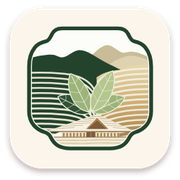
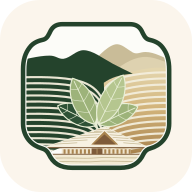
feat: restore original branding and complete aftersale history and return info

diff --git a/test/flows.js b/test/flows.js
@@ -1,3 +1,4 @@
+const U = require('../lib/util'), now=U.now;
 // 进阶流程测试:拼团成团/到点自动成团、秒杀下单、优惠券+积分抵扣、客服创建售后+积分/现金按比例退款、前台禁止上传
 const base = process.argv[2] || 'http://localhost:' + (process.env.PORT || 3000);
 const db = require('../lib/db');
@@ -114,6 +115,15 @@ class C { constructor(b) { this.k = {}; this.t = ''; this.b = b || base; }
   r = await adm.post('/admin/service/2/aftersale', { order_id: poid, type: 'quality', reason: '质量问题', amount: String(half), note: '部分退款' }); const pasid = (r.loc || '').split('/').pop(); ok(/^\d+$/.test(pasid), '客服创建「质量问题退换货」售后单');
   ok(db.get('SELECT created_by FROM aftersales WHERE id=?', pasid).created_by, '记录创建客服');
   r = await adm.get('/admin/aftersales/' + pasid); ok(r.text.includes('预计 退积分 150') && r.text.includes('原路退回'), '后台售后详情预计拆分(退积分/退现金)');
+  // Owner-approved aftersale return info / true event history.
+  r = await adm.post('/admin/aftersales/' + pasid + '/return-info', {return_address:'测试退货仓 <script>alert(1)</script>',return_shipping_note:'质量问题由商家承担，联系客服核实报销'});
+  ok(r.status===302, '售后:后台保存退货地址和运费说明');
+  r=await a.get('/aftersale/'+pasid);
+  ok(r.text.includes('测试退货仓 &lt;script&gt;')&&!r.text.includes('<script>alert(1)</script>'),'售后:地址显示且防止脚本注入');
+  ok(r.text.includes('质量问题由商家承担')&&r.text.includes('处理记录')&&r.text.includes('复制地址'),'售后:用户看到运费和真实处理记录');
+  r=await b.get('/aftersale/'+pasid);ok(r.status===302&&!r.text.includes('测试退货仓'),'售后:他人不能读取退货地址');
+  r=await a.post('/admin/aftersales/'+pasid+'/return-info',{return_address:'非法改动'});ok(r.status!==200&&db.get('SELECT return_address FROM aftersales WHERE id=?',pasid).return_address.includes('测试退货仓'),'售后:普通会员不能改退货信息');
+  await adm.get('/admin/aftersales/'+pasid);
   await adm.post('/admin/aftersales/' + pasid + '/handle', { action: 'approve' }); ok(db.get('SELECT status FROM aftersales WHERE id=?', pasid).status === 'approved_return', '同意退货');
   ok(!!db.get("SELECT 1 FROM messages WHERE user_id=2 AND sender='staff' AND content LIKE '【售后通知】售后单 #" + pasid + "%同意退货%'"), '状态变更通过客服消息通知用户');
   await a.get('/aftersale/' + pasid); r = await a.post('/aftersale/' + pasid + '/return', { company: '顺丰速运', tracking: 'SF999888777' }); ok(db.get('SELECT status FROM aftersales WHERE id=?', pasid).status === 'returned', '买家填写退货物流');
@@ -127,6 +137,20 @@ class C { constructor(b) { this.k = {}; this.t = ''; this.b = b || base; }
   ok(!!db.get("SELECT 1 FROM points_log WHERE user_id=2 AND delta=150 AND reason LIKE '售后退回积分%'"), 'points_log 记录「售后退回积分」');
   ok(db.get('SELECT status FROM orders WHERE id=?', poid).status === 'completed', '部分退款后订单保持已完成');
   r = await a.get('/aftersale/' + pasid); ok(r.text.includes('退积分 150') && r.text.includes('退现金 ¥' + half.toFixed(2)), '用户售后页显示退积分/退现金拆分');
+  { const ev=db.all('SELECT * FROM aftersale_events WHERE aftersale_id=? ORDER BY id',pasid);
+    ok(ev.map(x=>x.status).filter((x,i,arr)=>!i||x!==arr[i-1]).join(',')==='pending,approved_return,returned,refunded','售后:创建、批准、寄回、退款记录完整有序');
+    const n=ev.length;db.exec1('UPDATE aftersales SET updated_at=? WHERE id=?',now(),pasid);ok(db.get('SELECT COUNT(*) n FROM aftersale_events WHERE aftersale_id=?',pasid).n===n,'售后:无状态变化的刷新不制造时间线节点');
+    const display=require('../lib/aftersale-display');
+    const sup={id:-1,created_at:now(),supplier_status:JSON.stringify({afsAddressList:[{afterServiceReceiver:'供应商仓库',afterServicePhone:'测试电话',afterServiceAddress:'接口地址'}]}),return_address:'人工地址'};
+    ok(display(sup).addresses[0].includes('接口地址')&&!display(sup).addresses.includes('人工地址'),'售后:优先展示供应商返回的地址');
+    ok(display({id:-2,created_at:now()}).addresses.length===0&&display({id:-2,created_at:now()}).shippingNote.includes('待客服'),'售后:未确认时不编造地址与运费责任');
+    ok(U.AFTERSALE_STATUS.approved_return==='待寄回'&&U.AFTERSALE_STATUS.cancelled==='已取消','售后:新显示名保留原状态代码');
+    const legacy=display({id:-3,created_at:now(),updated_at:now(),status:'refunded'});ok(legacy.events.length===1,'售后:旧单无记录不伪造中间节点');
+    const x=db.exec1("INSERT INTO aftersales(order_id,user_id,type,reason,amount,status,created_at,updated_at) VALUES(?,?,?,?,?,'pending',?,?)",poid,2,'quality','记录测试',0,now(),now()).lastInsertRowid;
+    for(const st of ['rejected','cancelled','exchanged'])db.exec1('UPDATE aftersales SET status=?,updated_at=? WHERE id=?',st,now(),x);
+    ok(db.get('SELECT COUNT(*) n FROM aftersale_events WHERE aftersale_id=?',x).n===4,'售后:拒绝、取消、换货状态均留痕');
+    db.exec1('DELETE FROM aftersales WHERE id=?',x);ok(db.get('SELECT COUNT(*) n FROM aftersale_events WHERE aftersale_id=?',x).n===0,'售后:删除演示单同步清理关联记录');
+  }
   r = await adm.post('/admin/service/2/aftersale', { order_id: poid, type: 'refund', reason: '再退', amount: String(po.pay_amount) }); ok((r.loc || '').includes('/admin/service'), '剩余可退金额校验(不可超额退款)');
   console.log('== 全额退款 / 七天无理由校验 ==');
   const u = new C(); await u.login('13800000001', '123456');

diff --git a/test/smoke.js b/test/smoke.js
@@ -36,7 +36,7 @@ const ok = (c, name, extra) => { if (c) { pass++; console.log('  ✔', name); } 
   { const pg = await shop.get('/products'); ok(pg.text.includes('href="/privacy"') && pg.text.includes('href="/terms"') && pg.text.includes('运营方：海南韵农科技有限公司') && !pg.text.includes('演示'), '其他页面页脚仍有隐私政策/用户协议链接与运营方,无演示说明'); }
   ok(r.text.includes('活动专区') && r.text.includes('云商会员') && !r.text.includes('七天无理由') && !r.text.includes('7天无理由') && !r.text.includes('class="svc"') && !r.text.includes('鲜活易腐除外') && r.text.indexOf('class="svc"') < r.text.indexOf('class="picks"') && (r.text.match(/class="pk"/g) || []).length >= 6 && !/秒杀|限时|倒计时|仅剩|data-countdown|为你推荐|寄售|转盘/.test(r.text) && !/方正|汉仪/.test(r.text), '首页朱漆金韵:活动专区/云商会员/服务条(不含七天无理由承诺),无秒杀与倒计时');
   { const names = [...r.text.matchAll(/<span class="pk-n">([^<]*)<\/span>/g)].map(m => m[1]).slice(0, 6); const fresh = names.filter(n => /苹果|脐橙|芒果|鸡蛋|蔬菜/.test(n)).length; ok(names.length === 6 && fresh >= 4 && names.length - fresh <= 2 && !r.text.includes('智能手机') && !/今日推荐|为你推荐|猜你喜欢/.test(r.text), '好物精选演示 6 件以新鲜农产品为主(数码配件≤2),无整机手机与个性化文案', names.join('|')); }
-  ok(r.text.includes('韵农甄选') && r.text.includes('class="brand zh-brand gh-shop" href="/" aria-label="韵农甄选 首页">韵农甄选</a>') && !r.text.includes('财哥商城') && r.text.includes('placeholder="搜索商品名称"'), '品牌「韵农甄选」:首页横版标志/公告/页脚,无旧品牌名');
+  ok(r.text.includes('韵农甄选') && r.text.includes('/static/img/logo-orig-mark.svg?v=1') && r.text.includes('class="orig-mark"') && !r.text.includes('财哥商城') && r.text.includes('placeholder="搜索商品名称"'), '品牌「韵农甄选」:首页横版标志/公告/页脚,无旧品牌名');
   { ok(!/class="(hero )?bnr|bnr-s|bnr-d|aria-roledescription="carousel"/.test(r.text) && /home\.css\?v=22/.test(r.text) && !/home\.js\?v=/.test(r.text), '首页方案A:已移除横幅轮播');
     { const p2 = await shop.get('/product/2'); ok(p2.status === 200 && p2.text.includes('Type-C 七合一扩展坞') && !p2.text.includes('轻薄本'), '演示商品 ID 2 为电脑配件(扩展坞),无整机笔记本'); }
     ok(!/京东|财哥|倒计时|已售|销量|限时|仅剩/.test(r.text.replace(/<script[\s\S]*?<\/script>/g, '')) && r.text.includes('class="ann hm-ann hm-card"') && r.text.includes('class="hm-duo hm-card"'), '首页方案A:公告卡/精选好物|签到卡,无外部平台/倒计时/销量文案'); }
@@ -213,7 +213,7 @@ const ok = (c, name, extra) => { if (c) { pass++; console.log('  ✔', name); } 
   const act = new Client(); const aphone = '136' + String(Date.now()).slice(-8);
   await act.get('/register'); r = await act.post('/register', { phone: aphone, password: 'abc12345', password2: 'abc12345', nickname: '邀测', agree: '1', ref: '100001' });
   ok(r.status === 302, '被邀请人注册');
-  ok((await act.get('/me/coupons')).text.includes('邀请好友首单券'), '被邀请人获得首单优惠券');
+  ok((await act.get('/me/coupons')).text.includes('邀请好友专享券'), '被邀请人获得邀请好友专享券');
   r = await adm.get('/admin/members?q=' + aphone); const auid = (r.text.match(/\/admin\/members\/(\d+)/) || [])[1]; ok(!!auid, '后台找到被邀请人');
   r = await adm.get('/admin/members/' + auid); ok(r.text.includes('开通云商卡') && r.text.includes('经办员工'), '会员详情有云商卡开通表单');
   const ctid = (r.text.match(/name="card_type_id"[\s\S]*?<option value="(\d+)"/) || [])[1];

diff --git a/routes/shop.js b/routes/shop.js
@@ -370,12 +370,18 @@ module.exports = function (app, { filesOf }) {
   app.get('/aftersale/:id', needLogin, (req, res) => {
     const a = db.get('SELECT a.*, o.order_no, o.points_used, o.pay_amount FROM aftersales a JOIN orders o ON o.id=a.order_id WHERE a.id=? AND a.user_id=?', int(req.params.id), req.user.id);
     if (!a) return res.redirect('/aftersales');
-    res.page('shop/aftersale', { title: '售后详情', a, items: db.all('SELECT * FROM order_items WHERE order_id=?', a.order_id) });
+    res.page('shop/aftersale', { title: '售后详情', a, aftersaleDisplay: require('../lib/aftersale-display')(a), items: db.all('SELECT * FROM order_items WHERE order_id=?', a.order_id) });
   });
-  app.post('/aftersale/:id/return', needLogin, (req, res) => {
+  app.post('/aftersale/:id/return', needLogin, async (req, res) => {
     const co = String(req.body.company || '').slice(0, 30), tn = String(req.body.tracking || '').trim().slice(0, 40);
     if (!co || !tn) { flash(req, 'error', '请填写退货快递公司与运单号'); return res.redirect('/aftersale/' + int(req.params.id)); }
-    db.exec1("UPDATE aftersales SET status='returned', return_express=?, return_tracking=?, updated_at=? WHERE id=? AND user_id=? AND status='approved_return'", co, tn, now(), int(req.params.id), req.user.id);
+    const ownCase=db.get('SELECT * FROM aftersales WHERE id=? AND user_id=?',int(req.params.id),req.user.id);
+    if(!ownCase || ownCase.status!=='approved_return'){flash(req,'error','当前状态不能提交退货信息');return res.redirect('/aftersales');}
+    if(ownCase.supplier && ownCase.supplier_pick_type===1){flash(req,'error','本单由供应商安排上门取件，无需自行寄回');return res.redirect('/aftersale/'+ownCase.id);}
+    if(ownCase.supplier){
+      try{const result=await jdvop.afsAction(ownCase.id,'send',{express_company:co,express_code:tn});if(!result.ok){flash(req,'error',result.msg);return res.redirect('/aftersale/'+ownCase.id);}}
+      catch(e){flash(req,'error','退货信息暂未提交成功，请联系客服核实后重试');return res.redirect('/aftersale/'+ownCase.id);}
+    }else db.exec1("UPDATE aftersales SET status='returned', return_express=?, return_tracking=?, updated_at=? WHERE id=? AND user_id=? AND status='approved_return'",co,tn,now(),ownCase.id,req.user.id);
     const a = db.get('SELECT a.id, o.order_no FROM aftersales a JOIN orders o ON o.id=a.order_id WHERE a.id=? AND a.user_id=?', int(req.params.id), req.user.id);
     if (a) svc.notifyService(req.user.id, 'user', `售后单 #${a.id}(订单号 ${a.order_no})退货已寄出:${co} ${tn}`);
     flash(req, 'success', '退货信息已提交,等待商家收货确认'); res.redirect('/aftersale/' + int(req.params.id));

diff --git a/test/jdvop.js b/test/jdvop.js
@@ -305,6 +305,15 @@ const stripTags = h => h.replace(/<script[\s\S]*?<\/script>/g, '').replace(/<sty
   r = await adm.get('/admin/aftersales/' + as.id); ok(r.text.includes('售后运单') && r.text.includes('售后物流'), '售后详情页显示售后物流');
   ok(db.get("SELECT request FROM supplier_call_logs WHERE interface_code='queryAfsLogisticsInfo' ORDER BY id DESC").request.includes('originalOrderId'), '售后物流入参 originalOrderId(京东子单号)');
   ok(db.get('SELECT status FROM orders WHERE id=?', oid).status === 'shipped' && !db.get("SELECT 1 FROM traces WHERE order_id=? AND text LIKE '%部分退款%'", oid), '供应商退款前不给顾客退款');
+  r=await a.get('/aftersale/'+as.id);ok(r.text.includes('供应商安排上门取件')&&!r.text.includes('name="tracking"'),'售后:上门取件不让用户自行寄回');
+  await a.post('/aftersale/'+as.id+'/return',{company:'测试快递',tracking:'TEST123'});ok(db.get('SELECT status FROM aftersales WHERE id=?',as.id).status==='approved_return','售后:上门取件拦截寄回提交');
+  // 本地mock切换寄回分支,核对顾客端不会只改本地状态而漏传供应商。
+  db.exec1('UPDATE aftersales SET supplier_pick_type=3 WHERE id=?',as.id);
+  const callsBefore=db.get("SELECT COUNT(*) n FROM supplier_call_logs WHERE interface_code='updateSendInfo'").n;
+  await a.post('/aftersale/'+as.id+'/return',{company:'测试快递',tracking:'TEST123'});
+  ok(db.get("SELECT COUNT(*) n FROM supplier_call_logs WHERE interface_code='updateSendInfo'").n===callsBefore+1 && db.get('SELECT status FROM aftersales WHERE id=?',as.id).status==='returned','售后:用户寄回信息提交供应商成功后才改状态');
+  await adm.post('/admin/jdvop/aftersales/'+as.id+'/sim-afs_receive');ok(!!db.get("SELECT 1 FROM aftersale_events WHERE aftersale_id=? AND detail LIKE '%已收货%'",as.id),'售后:本地状态未变仍记录供应商实际收货确认');
+  const events=db.all('SELECT status FROM aftersale_events WHERE aftersale_id=? ORDER BY id',as.id);ok(events.some(e=>e.status==='approved_return')&&events.some(e=>e.status==='returned'),'售后:供应商审核和用户寄回均进入时间线');
   await adm.post('/admin/jdvop/aftersales/' + as.id + '/sim-afs_refund');
   const as2 = db.get('SELECT * FROM aftersales WHERE id=?', as.id);
   ok(as2.status === 'refunded' && Math.abs(as2.refund_cash - 25.9) < 0.001 && as2.supplier_refunded_at && as2.supplier_refund_amount > 0, '收到 119 退款回调且查询确认 → 自动退款给顾客', JSON.stringify(as2));

diff --git a/lib/db.js b/lib/db.js
@@ -203,4 +203,21 @@ CREATE INDEX IF NOT EXISTS idx_pr_user_goods ON points_redemptions(user_id, good
 // ---- 供应商对接(京东货盘/来一票 VOP,幂等迁移) ----
 require('./suppliers/jdvop/schema')(db);
 
+// v1.5 售后公开处理记录/独立寄回信息(幂等,原状态代码不变)
+(function aftersaleHistory(){
+ const cols = new Set(db.prepare('PRAGMA table_info(aftersales)').all().map(c=>c.name));
+ for(const c of ['return_address','return_shipping_note']) if(!cols.has(c)) db.exec(`ALTER TABLE aftersales ADD COLUMN ${c} TEXT`);
+ db.exec(`CREATE TABLE IF NOT EXISTS aftersale_events(id INTEGER PRIMARY KEY, aftersale_id INTEGER NOT NULL, status TEXT, detail TEXT, created_at TEXT);
+ CREATE INDEX IF NOT EXISTS aftersale_events_case ON aftersale_events(aftersale_id,id);
+ CREATE TRIGGER IF NOT EXISTS aftersale_created AFTER INSERT ON aftersales BEGIN
+ INSERT INTO aftersale_events(aftersale_id,status,detail,created_at) VALUES(NEW.id,NEW.status,'售后申请已创建',NEW.created_at); END;
+ CREATE TRIGGER IF NOT EXISTS aftersale_changed AFTER UPDATE OF status,admin_note,return_address,return_shipping_note,return_tracking ON aftersales
+ WHEN OLD.status IS NOT NEW.status OR OLD.admin_note IS NOT NEW.admin_note OR OLD.return_address IS NOT NEW.return_address OR OLD.return_shipping_note IS NOT NEW.return_shipping_note OR OLD.return_tracking IS NOT NEW.return_tracking
+ BEGIN INSERT INTO aftersale_events(aftersale_id,status,detail,created_at) VALUES(NEW.id,NEW.status,
+ CASE WHEN OLD.status IS NOT NEW.status AND NEW.status='cancelled' THEN '售后已取消' WHEN OLD.status IS NOT NEW.status AND NEW.status='returned' THEN '退货物流已提交' WHEN OLD.status IS NOT NEW.status THEN COALESCE(NEW.admin_note,'处理状态已更新')
+ WHEN OLD.return_tracking IS NOT NEW.return_tracking THEN '退货物流已提交'
+ WHEN OLD.return_address IS NOT NEW.return_address OR OLD.return_shipping_note IS NOT NEW.return_shipping_note THEN '退货地址或运费说明已更新'
+ ELSE COALESCE(NEW.admin_note,'处理说明已更新') END,COALESCE(NEW.updated_at,NEW.created_at)); END;
+ CREATE TRIGGER IF NOT EXISTS aftersale_deleted AFTER DELETE ON aftersales BEGIN DELETE FROM aftersale_events WHERE aftersale_id=OLD.id; END;`);
+})();
 module.exports = db;

diff --git a/routes/admin.js b/routes/admin.js
@@ -359,7 +359,16 @@ module.exports = function (r, { filesOf }) {
     if (!a) return res.redirect('/admin/aftersales');
     a.estPoints = a.pay_amount > 0 ? Math.round((a.points_used || 0) * Math.min(1, a.amount / a.pay_amount)) : (a.points_used || 0);
     if (a.supplier) { try { a.sup = JSON.parse(a.supplier_status || 'null'); } catch (e) { a.sup = null; } a.mock = J_cfgMode() === 'mock'; }
-    res.page('admin/aftersale', { title: '售后详情', a, items: db.all('SELECT * FROM order_items WHERE order_id=?', a.order_id) });
+    res.page('admin/aftersale', { title: '售后详情', a, aftersaleDisplay: require('../lib/aftersale-display')(a), items: db.all('SELECT * FROM order_items WHERE order_id=?', a.order_id) });
+  });
+  r.post('/aftersales/:id/return-info', need('order'), (req,res)=>{
+    const a=db.get('SELECT * FROM aftersales WHERE id=?',int(req.params.id));
+    if(!a)return res.redirect('/admin/aftersales');
+    const address=String(req.body.return_address||'').trim().slice(0,1000), shipping=String(req.body.return_shipping_note||'').trim().slice(0,1000);
+    db.exec1('UPDATE aftersales SET return_address=?,return_shipping_note=?,updated_at=? WHERE id=?',address,shipping,now(),a.id);
+    log(req,'更新售后退货信息','#'+a.id);
+    if(address!==String(a.return_address||'')||shipping!==String(a.return_shipping_note||'')) svc.notifyService(a.user_id,'staff',`【售后通知】售后单 #${a.id} 的退货地址或运费说明已更新，请打开售后详情核对后再寄回。`);
+    flash(req,'success','退货地址和运费说明已保存');res.redirect('/admin/aftersales/'+a.id);
   });
   const asNotify = (a, text) => svc.notifyService(a.user_id, 'staff', `【售后通知】售后单 #${a.id}:${text} 进度可在「我的 - 退款/售后」查看。`);
   function doRefund(req, a, note, okMsg) {

diff --git a/public/css/green.css b/public/css/green.css
@@ -466,3 +466,18 @@ body.g-theme.pg-pd{padding-bottom:calc(66px + env(safe-area-inset-bottom))}
 @keyframes g-shake{0%,100%{transform:translateX(0)}25%{transform:translateX(-3px)}75%{transform:translateX(3px)}}
 .g-theme .agree.shake input[type=checkbox],.g-theme .no7-ack.shake input[type=checkbox]{animation:g-shake .35s ease}
 .g-theme .agree.shake{animation:g-shake .35s ease}
+
+/* Owner approved original brand, keep the emblem unchanged. */
+.gh .gh-original{display:flex;align-items:center;gap:8px;white-space:nowrap}
+.gh .orig-mark{display:flex;align-items:center;justify-content:center;background:#fff;border-radius:7px;padding:2px;flex-shrink:0}
+.gh .orig-mark img{display:block;width:auto;height:28px;max-width:42px}
+.original-full{text-align:center;margin:16px auto}.original-full img{width:212px;max-width:85%;height:auto}
+.as-history{list-style:none;margin:12px 0;padding:0 0 0 14px;border-left:2px solid #d5eadc}
+.as-history li{position:relative;margin:0 0 18px;padding-left:12px;overflow-wrap:anywhere}
+.as-history li:before{content:"";position:absolute;left:-19px;top:6px;width:8px;height:8px;background:#2E9E5B;border-radius:50%}
+.as-history time{display:block;font-size:12px;color:#66756b;margin-top:4px}
+.as-return{background:#EEF8F2;color:#225b37;padding:14px;border-radius:12px;margin:16px 0;overflow-wrap:anywhere}
+.as-return p{margin:6px 0}.as-rejected{background:#FFF6E8;color:#B26A00;padding:12px;border-radius:10px}
+
+.as-history li.done:before{background:#b8ddc6}.as-history li.current>b{color:#2E9E5B}
+.as-address{display:flex;align-items:flex-start;gap:8px}.as-address>span{flex:1;min-width:0;white-space:pre-wrap}.as-copy{flex-shrink:0;white-space:nowrap}

diff --git a/lib/util.js b/lib/util.js
@@ -12,7 +12,7 @@ const num = (v, d = 0) => { const n = parseFloat(v); return isNaN(n) ? d : n; };
 const int = (v, d = 0) => { const n = parseInt(v, 10); return isNaN(n) ? d : n; };
 
 const ORDER_STATUS = { unpaid: '待付款', paid: '待发货', shipped: '待收货', completed: '已完成', cancelled: '已取消', refunded: '已退款' };
-const AFTERSALE_STATUS = { pending: '待审核', approved_return: '待买家寄回', returned: '待商家收货', refunded: '已退款', exchanged: '已换货', rejected: '已拒绝', cancelled: '已撤销' };
+const AFTERSALE_STATUS = { pending: '待审核', approved_return: '待寄回', returned: '待商家收货', refunded: '已退款', exchanged: '已换货', rejected: '已拒绝', cancelled: '已取消' };
 const PAY_METHOD = { wechat: '微信支付(模拟)', alipay: '支付宝(模拟)', balance: '模拟支付', points: '积分兑换' }; // balance 仅用于历史演示订单,余额功能已下线
 const AFTERSALE_TYPE = { refund: '仅退款', refund_return: '退货退款', no_reason: '7天无理由退货', quality: '质量问题退换货' };
 const PERMS = { dashboard: '数据概览', product: '商品/分类/品牌/运费', order: '订单/售后/发票', review: '评价管理', member: '会员/等级/邀请/云商卡', marketing: '营销(优惠券/秒杀/拼团/积分商城/Banner/热搜)', content: '文章/公告/帮助', service: '客服', stats: '统计报表/数据导出', system: '管理员/角色/日志/系统设置' };

diff --git a/lib/suppliers/jdvop/service.js b/lib/suppliers/jdvop/service.js
@@ -612,6 +612,12 @@ async function syncAftersale(asId) {
   if (!r) return null;
   db.exec1('UPDATE aftersales SET supplier_status=?, updated_at=? WHERE id=?', JSON.stringify(r), now(), a.id);
   const target = AFS_MAP(r);
+  // A supplier may confirm receipt while the local state is already "returned".
+  // Record this real confirmation too; identical polls must not create events.
+  let previous=null;try{previous=JSON.parse(a.supplier_status||'null')}catch{}
+  if(target===a.status && previous && ['applyStatus','afsStatus','refundStatus'].some(k=>previous[k]!==r[k]))
+    db.exec1('INSERT INTO aftersale_events(aftersale_id,status,detail,created_at) VALUES(?,?,?,?)',a.id,target,'供应商查询确认：'+[r.applyStatusText,r.afsStatusText,r.refundStatusText].filter(Boolean).join(' / '),now());
+
   if (target === 'refunded') { await confirmAfsRefund(a, null, r); return 'refunded'; } // 查询结果「退款成功」作为回调兜底
   if (['pending', 'approved_return', 'returned'].includes(a.status) && target !== a.status) {
     db.exec1('UPDATE aftersales SET status=?, admin_note=?, updated_at=? WHERE id=?', target, '供应商:' + [r.applyStatusText, r.afsStatusText].filter(Boolean).join(' / '), now(), a.id);

diff --git a/lib/seed.js b/lib/seed.js
@@ -145,7 +145,7 @@ function seed(reset) {
       ['钻石月卡', 'diamond', 'month', 699, 70], ['钻石季卡', 'diamond', 'quarter', 1799, 80], ['钻石年卡', 'diamond', 'year', 5999, 90]
     ];
     cardDefs.forEach(d => ins('cloud_card_types', { name: d[0], tier: d[1], duration: d[2], activation_fee: d[3], status: 1, sort: d[4], remark: '线下办理' }));
-    const invCoupon = ins('coupons', { name: '邀请好友首单券', threshold: 59, amount: 8, total: 9999, per_limit: 1, valid_days: 30, description: '满59元可用,立减8元;每人限领1张,领取后30天内有效。受邀注册的新会员注册时自动发放1张。', created_at: now() });
+    const invCoupon = ins('coupons', { name: '邀请好友专享券', threshold: 59, amount: 8, total: 9999, per_limit: 1, valid_days: 30, description: '满59元可用,立减8元;每人限领1张,领取后30天内有效。受邀注册的新会员注册时自动发放1张。', created_at: now() });
     svc.setSetting('invite_coupon_id', invCoupon);
     art('help', '会员权益', '云商卡会员权益说明', CLOUD_HELP, 8);
   })();

diff --git a/lib/aftersale-display.js b/lib/aftersale-display.js
@@ -1,0 +1,9 @@
+const db = require('./db');
+module.exports = function(a){
+ let sp={};try{sp=JSON.parse(a.supplier_status||'{}')||{}}catch{}
+ const addresses=(Array.isArray(sp.afsAddressList)?sp.afsAddressList:[]).map(x=>[x.afterServiceReceiver,x.afterServicePhone,x.afterServiceAddress].filter(Boolean).join(' ')).filter(Boolean);
+ const events=db.all('SELECT status,detail,created_at FROM aftersale_events WHERE aftersale_id=? ORDER BY id',a.id);
+ if(events.length && events[0].detail!=='售后申请已创建') events.unshift({status:null,detail:'售后申请已创建',created_at:a.created_at});
+ if(!events.length){events.push({status:null,detail:'售后申请已创建',created_at:a.created_at});if(a.updated_at&&a.updated_at!==a.created_at)events.push({status:a.status,detail:'当前处理状态(历史明细未记录)',created_at:a.updated_at});}
+ return {events,addresses:addresses.length?addresses:(a.return_address?[a.return_address]:[]),shippingNote:a.return_shipping_note||'运费承担方式待客服按商品售后规则核实，请确认后再寄回。'};
+};

diff --git a/server.js b/server.js
@@ -13,6 +13,7 @@ const banned = require('./lib/banned');
 const SqliteStore = require('./lib/session-store');
 
 if (db.get('SELECT COUNT(*) n FROM admins').n === 0) require('./lib/seed')(false);
+db.exec1("UPDATE coupons SET name='邀请好友专享券' WHERE name='邀请好友首单券'");
 try { require('./lib/seed').ensureDemoMembers(); } catch (e) { console.error('[demo] ensureDemoMembers', e.message); }
 // 前台已下线账户余额:旧库中的相关帮助文案同步更新(幂等)
 db.exec1("UPDATE articles SET title='支付方式说明', content='<p>本站为演示站点,支持微信支付(模拟)与支付宝(模拟),不产生真实扣款。</p>' WHERE category='help' AND title='余额充值说明'");
